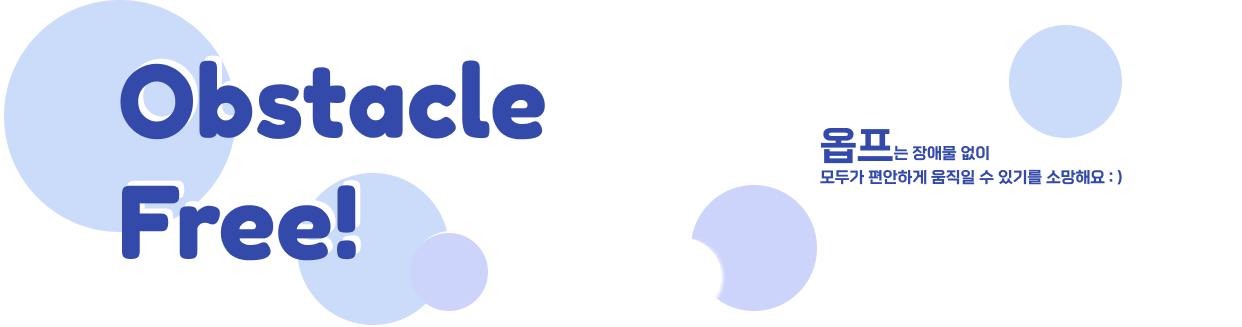
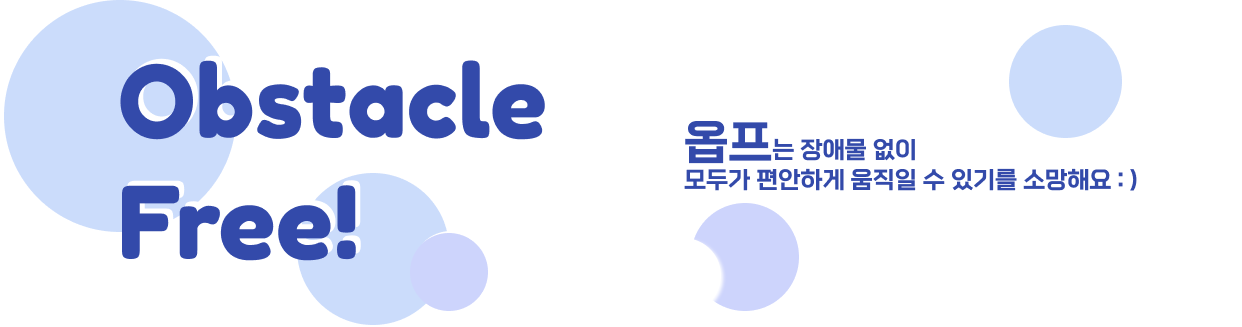
style: 장소 목록 스타일 적용

Changed region(s): [[0.5507, 0.367, 0.9179, 0.948]]

diff --git a/css/common.css b/css/common.css
@@ -6,8 +6,8 @@
 }
 
 :root{
-  --main-color : #004b9b;
-  --sub-color : #174274;
+  --main-color : #334AAA;
+  --sub-color : #F2F6FF;
 }
 
 html{
@@ -69,6 +69,7 @@ body {
   height: 100%;
   overflow: auto;
   font-family: 'Pretendard-regular';
+  box-sizing: border-box;
 
 }
 
@@ -109,4 +110,55 @@ header{
   0%{transform: rotate(-3deg);}
   50%{transform: rotate(3deg);}
   100%{transform: rotate(-3deg);}
+}
+
+#tourAreas {
+  display: flex;
+  flex-wrap: wrap;
+  gap: 2.6rem;
+  align-items: center;
+  justify-content: center;
+}
+
+#tourAreas .area {
+  width: 33rem;
+  height: 33rem;
+  position: relative;
+  display: flex;
+  flex-direction: column;
+  align-items: center;
+
+}
+
+#tourAreas .area img {
+  width: 33rem;
+  aspect-ratio: 1/1;
+  object-fit: cover;
+  border-radius: 2rem;
+}
+
+#tourAreaTitle {
+  font-size: 2rem;
+  position: absolute;
+  padding: 1.4rem;
+  top: 3rem;
+  background-color: rgba(255, 255, 255, 0.6);
+  border-radius: 5rem;
+  color: var(--main-color);
+  font-family: 'GongGothicMedium';
+}
+
+#tourAreaAddress {
+  width: 30rem;
+  position: absolute;
+  bottom: 3rem;
+  font-size: 2rem;
+  color: white;
+  overflow: hidden;
+  white-space: nowrap;
+  text-overflow: ellipsis;
+  word-break: break-all;
+  text-align: center;
+  background-color: rgba(255, 255, 255, 0.6);
+  color: var(--main-color);
 }

diff --git a/js/main.js b/js/main.js
@@ -6,14 +6,12 @@ $.map(recommendPlace, function(item){
     `<li id=${item.contentid} class="area" title="${item.title}" data-image="${item.image}" data-addr1="${item.addr}">
       <img src=${item.image} alt="${item.title}">
       <p id="tourAreaTitle">${item.title}</p>
-      <p id="tourAreaAddress">주소 : ${item.addr}</p>
     </li>`)
   } else {
     return $("#tourAreas").append(
       `<li id=${item.contentid} class="area" title="${item.title}" data-image="${item.image}" data-addr1="${item.addr}">
         <img src="../img/tuorareadefault.png" alt="${item.title}">
         <p id="tourAreaTitle">${item.title}</p>
-        <p id="tourAreaAddress">주소 : ${item.addr}</p>
       </li>`)
   }
 })

diff --git a/index.html b/index.html
@@ -26,14 +26,14 @@
     </div>
   </header>
   <main>
-    <section>
+    <section class="banner">
       <img src="./img/banner.png" alt="옵프안내배너 - 장애물없는 세상을 소망해요!">
     </section>
-    <section>
+    <section class="recommendPlace">
       <h2>옵프 추천 장소</h2>
       <ul id="tourAreas"></ul>
     </section>
-    <section>
+    <section class="tourist">
       <h2>내 주변 관광지는?</h2>
     </section>
   </main>

diff --git a/css/main.css b/css/main.css
@@ -1,0 +1,20 @@
+.banner{
+  height: 400px;
+  display: flex;
+  align-items: center;
+  justify-content: center;background-color: var(--sub-color);
+}
+
+main .recommendPlace, main .tourist{
+  max-width: 1400px;
+  margin: 0 auto;
+}
+
+section h2{
+  font-family: 'GongGothicMedium';
+  font-size: 2.4rem;
+  margin: 7rem 0 1.6rem 0;
+  padding: 2rem 1rem;
+  text-align: center;
+}
+
